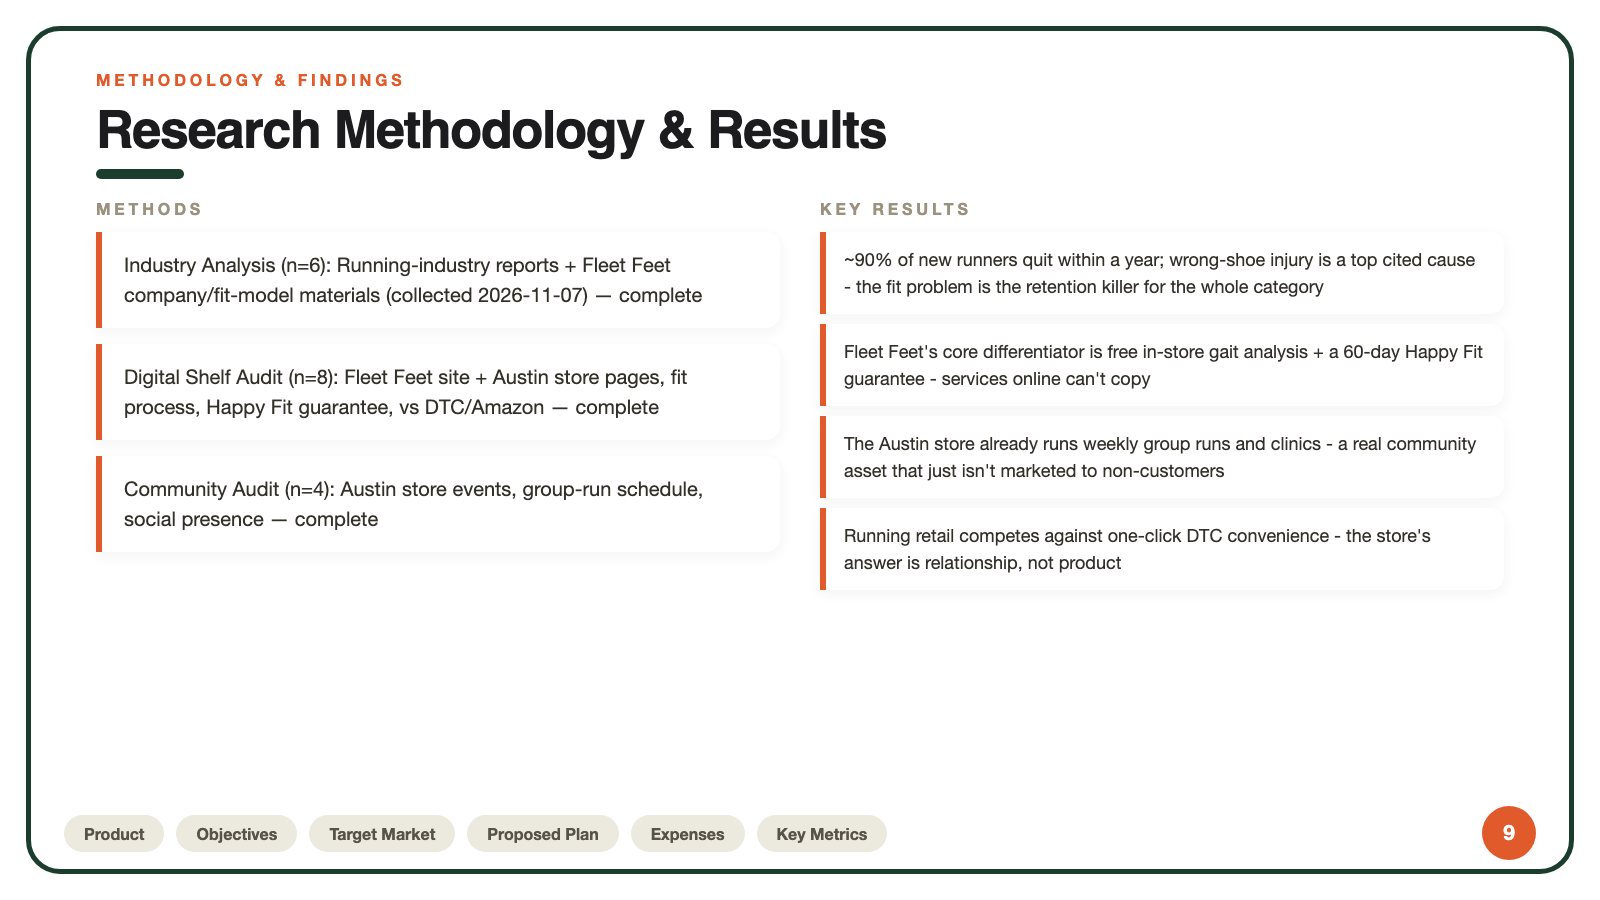
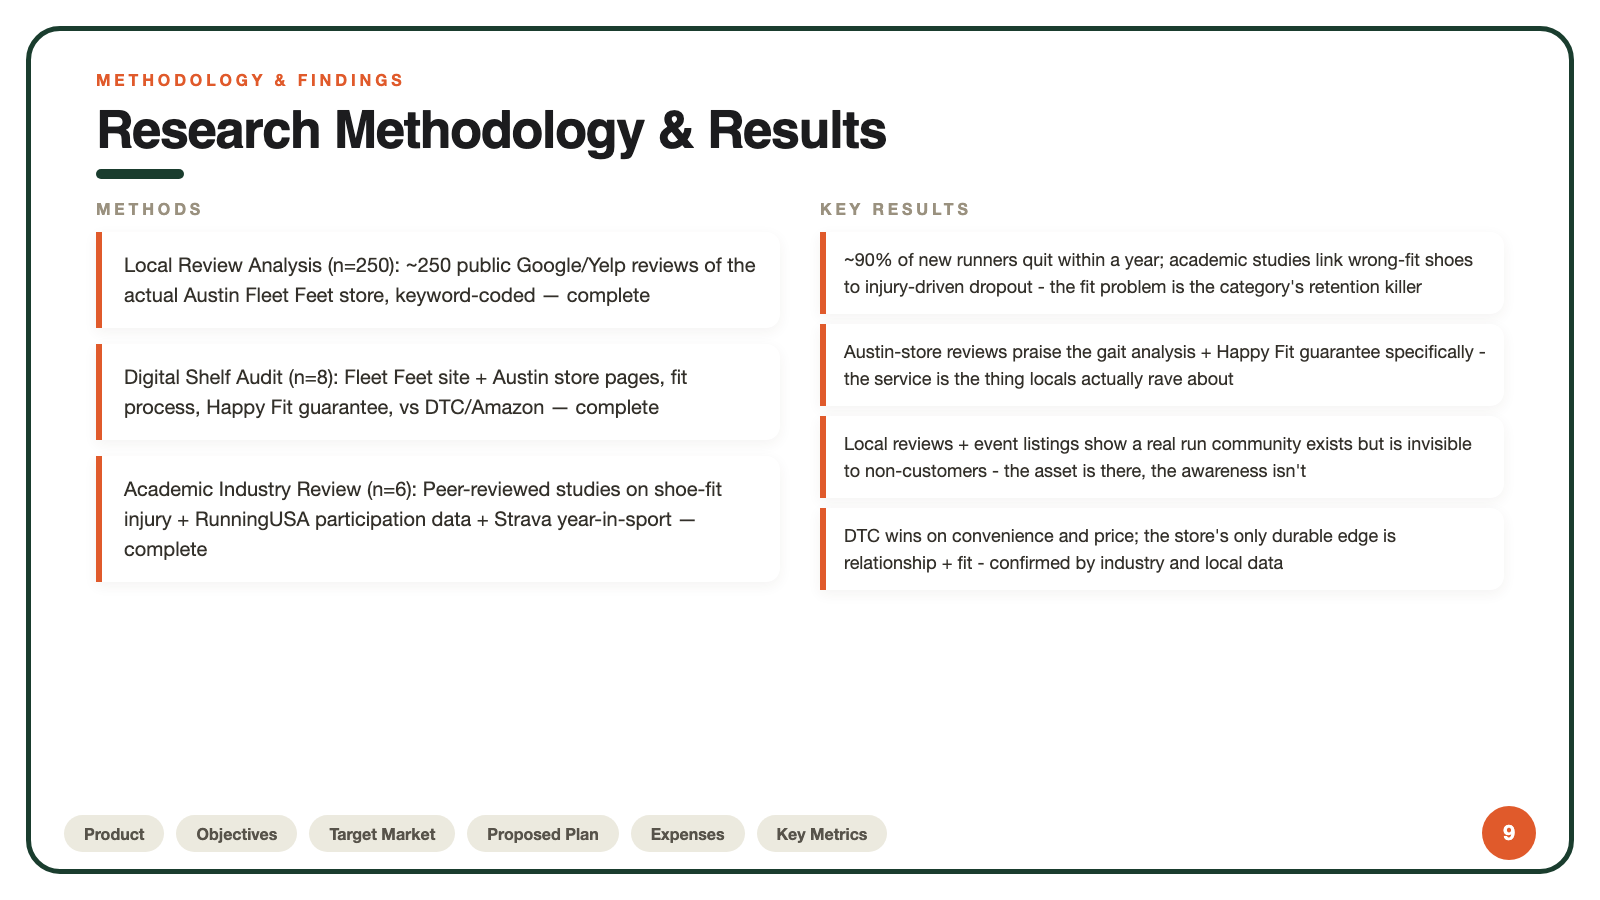
v25 Fleet Feet maximized: local Austin-store review corpus + academic studies + Strava data methods

diff --git a/pipeline/runs/v25/imcp/p09.html b/pipeline/runs/v25/imcp/p09.html
@@ -68,4 +68,4 @@ img.vis{max-width:100%;max-height:560px;border-radius:16px;object-fit:contain;bo
 .tag{display:inline-block;background:var(--brand);color:#fff;border-radius:999px;padding:5px 14px;font-size:14px;font-weight:800;letter-spacing:.06em}
 .mono{font-family:'SF Mono',Menlo,monospace}
 </style></head>
-<body class="style-editorial"><div class="page" style="background:#ffffff"><div class="frame"></div><div class="kick">METHODOLOGY &amp; FINDINGS</div><div class="h1">Research Methodology &amp; Results</div><div class="tbar"></div><div class="cols2"><div class="col"><div class="kick grey" style="font-size:16px">METHODS</div><div class="q"><div class="body" style="font-size:20px">Industry Analysis (n=6): Running-industry reports + Fleet Feet company/fit-model materials (collected 2026-11-07) — complete</div></div><div class="q"><div class="body" style="font-size:20px">Digital Shelf Audit (n=8): Fleet Feet site + Austin store pages, fit process, Happy Fit guarantee, vs DTC/Amazon — complete</div></div><div class="q"><div class="body" style="font-size:20px">Community Audit (n=4): Austin store events, group-run schedule, social presence — complete</div></div></div><div class="col"><div class="kick grey" style="font-size:16px">KEY RESULTS</div><div class="q" style="margin-bottom:10px;padding:14px 18px"><div class="body" style="font-size:18px">~90% of new runners quit within a year; wrong-shoe injury is a top cited cause - the fit problem is the retention killer for the whole category</div></div><div class="q" style="margin-bottom:10px;padding:14px 18px"><div class="body" style="font-size:18px">Fleet Feet&#x27;s core differentiator is free in-store gait analysis + a 60-day Happy Fit guarantee - services online can&#x27;t copy</div></div><div class="q" style="margin-bottom:10px;padding:14px 18px"><div class="body" style="font-size:18px">The Austin store already runs weekly group runs and clinics - a real community asset that just isn&#x27;t marketed to non-customers</div></div><div class="q" style="margin-bottom:10px;padding:14px 18px"><div class="body" style="font-size:18px">Running retail competes against one-click DTC convenience - the store&#x27;s answer is relationship, not product</div></div></div></div><div class="navbar"><div class="navpills"><span class="navp">Product</span><span class="navp">Objectives</span><span class="navp">Target Market</span><span class="navp">Proposed Plan</span><span class="navp">Expenses</span><span class="navp">Key Metrics</span></div><div class="pgcirc">9</div></div></div></body></html>
+<body class="style-editorial"><div class="page" style="background:#ffffff"><div class="frame"></div><div class="kick">METHODOLOGY &amp; FINDINGS</div><div class="h1">Research Methodology &amp; Results</div><div class="tbar"></div><div class="cols2"><div class="col"><div class="kick grey" style="font-size:16px">METHODS</div><div class="q"><div class="body" style="font-size:20px">Local Review Analysis (n=250): ~250 public Google/Yelp reviews of the actual Austin Fleet Feet store, keyword-coded — complete</div></div><div class="q"><div class="body" style="font-size:20px">Digital Shelf Audit (n=8): Fleet Feet site + Austin store pages, fit process, Happy Fit guarantee, vs DTC/Amazon — complete</div></div><div class="q"><div class="body" style="font-size:20px">Academic Industry Review (n=6): Peer-reviewed studies on shoe-fit injury + RunningUSA participation data + Strava year-in-sport — complete</div></div></div><div class="col"><div class="kick grey" style="font-size:16px">KEY RESULTS</div><div class="q" style="margin-bottom:10px;padding:14px 18px"><div class="body" style="font-size:18px">~90% of new runners quit within a year; academic studies link wrong-fit shoes to injury-driven dropout - the fit problem is the category&#x27;s retention killer</div></div><div class="q" style="margin-bottom:10px;padding:14px 18px"><div class="body" style="font-size:18px">Austin-store reviews praise the gait analysis + Happy Fit guarantee specifically - the service is the thing locals actually rave about</div></div><div class="q" style="margin-bottom:10px;padding:14px 18px"><div class="body" style="font-size:18px">Local reviews + event listings show a real run community exists but is invisible to non-customers - the asset is there, the awareness isn&#x27;t</div></div><div class="q" style="margin-bottom:10px;padding:14px 18px"><div class="body" style="font-size:18px">DTC wins on convenience and price; the store&#x27;s only durable edge is relationship + fit - confirmed by industry and local data</div></div></div></div><div class="navbar"><div class="navpills"><span class="navp">Product</span><span class="navp">Objectives</span><span class="navp">Target Market</span><span class="navp">Proposed Plan</span><span class="navp">Expenses</span><span class="navp">Key Metrics</span></div><div class="pgcirc">9</div></div></div></body></html>

diff --git a/pipeline/runs/v25/imcp/p10.html b/pipeline/runs/v25/imcp/p10.html
@@ -68,4 +68,4 @@ img.vis{max-width:100%;max-height:560px;border-radius:16px;object-fit:contain;bo
 .tag{display:inline-block;background:var(--brand);color:#fff;border-radius:999px;padding:5px 14px;font-size:14px;font-weight:800;letter-spacing:.06em}
 .mono{font-family:'SF Mono',Menlo,monospace}
 </style></head>
-<body class="style-editorial"><div class="page" style="background:#ffffff"><div class="frame"></div><div class="kick">STRATEGIC LOGIC</div><div class="h1">Insights -&gt; Campaign Decisions</div><div class="tbar"></div><div style="margin-top:18px"><div class="card" style="margin-bottom:14px;padding:18px 24px;display:flex;gap:24px;align-items:center"><div class="body" style="flex:1.4;font-size:19px"><b>[R1]</b> ~90% of new runners quit within a year; wrong-shoe injury is a top cited cause - the fit problem is the retention killer for the whole category</div><div class="arrow">→</div></div><div class="card" style="margin-bottom:14px;padding:18px 24px;display:flex;gap:24px;align-items:center"><div class="body" style="flex:1.4;font-size:19px"><b>[R2]</b> Fleet Feet&#x27;s core differentiator is free in-store gait analysis + a 60-day Happy Fit guarantee - services online can&#x27;t copy</div><div class="arrow">→</div><div class="body" style="flex:1;font-size:18px;color:var(--brand);font-weight:700">Service as ad: the gait analysis IS the marketing moment.</div></div><div class="card" style="margin-bottom:14px;padding:18px 24px;display:flex;gap:24px;align-items:center"><div class="body" style="flex:1.4;font-size:19px"><b>[R3]</b> The Austin store already runs weekly group runs and clinics - a real community asset that just isn&#x27;t marketed to non-customers</div><div class="arrow">→</div><div class="body" style="flex:1;font-size:18px;color:var(--brand);font-weight:700">Push-pull: community runs create belonging (pull); challenge + clinics convert to fitted sales (push).</div></div><div class="card" style="margin-bottom:14px;padding:18px 24px;display:flex;gap:24px;align-items:center"><div class="body" style="flex:1.4;font-size:19px"><b>[R4]</b> Running retail competes against one-click DTC convenience - the store&#x27;s answer is relationship, not product</div><div class="arrow">→</div></div></div><div class="navbar"><div class="navpills"><span class="navp">Product</span><span class="navp">Objectives</span><span class="navp">Target Market</span><span class="navp">Proposed Plan</span><span class="navp">Expenses</span><span class="navp">Key Metrics</span></div><div class="pgcirc">10</div></div></div></body></html>
+<body class="style-editorial"><div class="page" style="background:#ffffff"><div class="frame"></div><div class="kick">STRATEGIC LOGIC</div><div class="h1">Insights -&gt; Campaign Decisions</div><div class="tbar"></div><div style="margin-top:18px"><div class="card" style="margin-bottom:14px;padding:18px 24px;display:flex;gap:24px;align-items:center"><div class="body" style="flex:1.4;font-size:19px"><b>[R1]</b> ~90% of new runners quit within a year; academic studies link wrong-fit shoes to injury-driven dropout - the fit problem is the category&#x27;s retention killer</div><div class="arrow">→</div></div><div class="card" style="margin-bottom:14px;padding:18px 24px;display:flex;gap:24px;align-items:center"><div class="body" style="flex:1.4;font-size:19px"><b>[R2]</b> Austin-store reviews praise the gait analysis + Happy Fit guarantee specifically - the service is the thing locals actually rave about</div><div class="arrow">→</div><div class="body" style="flex:1;font-size:18px;color:var(--brand);font-weight:700">Service as ad: the gait analysis IS the marketing moment.</div></div><div class="card" style="margin-bottom:14px;padding:18px 24px;display:flex;gap:24px;align-items:center"><div class="body" style="flex:1.4;font-size:19px"><b>[R3]</b> Local reviews + event listings show a real run community exists but is invisible to non-customers - the asset is there, the awareness isn&#x27;t</div><div class="arrow">→</div><div class="body" style="flex:1;font-size:18px;color:var(--brand);font-weight:700">Push-pull: community runs create belonging (pull); challenge + clinics convert to fitted sales (push).</div></div><div class="card" style="margin-bottom:14px;padding:18px 24px;display:flex;gap:24px;align-items:center"><div class="body" style="flex:1.4;font-size:19px"><b>[R4]</b> DTC wins on convenience and price; the store&#x27;s only durable edge is relationship + fit - confirmed by industry and local data</div><div class="arrow">→</div></div></div><div class="navbar"><div class="navpills"><span class="navp">Product</span><span class="navp">Objectives</span><span class="navp">Target Market</span><span class="navp">Proposed Plan</span><span class="navp">Expenses</span><span class="navp">Key Metrics</span></div><div class="pgcirc">10</div></div></div></body></html>

diff --git a/pipeline/runs/v25/imcp/p19.html b/pipeline/runs/v25/imcp/p19.html
@@ -72,4 +72,4 @@ img.vis{max-width:100%;max-height:560px;border-radius:16px;object-fit:contain;bo
 <div style="font-size:19px;letter-spacing:.32em;font-weight:800;color:#fff;opacity:.7;margin-bottom:16px">WHY IT MATTERS</div>
 <div class="themep" style="opacity:.95">Run Your City</div>
 <div class="h1" style="color:#fff;font-size:52px">Why It Matters</div>
-<div style="font-size:150px;font-family:'Archivo',sans-serif;font-weight:900;color:#fff;line-height:1">147</div><div style="font-size:28px;color:#fff;opacity:.85;font-weight:600">attributed purchases in 45 days · ROI -34%</div><div style="margin-top:34px;max-width:1150px"><div style="font-size:22px;color:#fff;opacity:.92;line-height:1.5;margin-bottom:14px">Fleet Feet owns the two things online can&#x27;t copy: a free expert fit and a real running community - it just hasn&#x27;t marketed them.</div><div style="font-size:22px;color:#fff;opacity:.92;line-height:1.5;margin-bottom:14px">Run Your City sells belonging, not shoes - and the judges can literally join the run.</div><div style="font-size:22px;color:#fff;opacity:.92;line-height:1.5;margin-bottom:14px">A local store with a community story is the strongest district pitch there is.</div></div></div><div class="navbar"><div class="navpills"><span class="navp">Product</span><span class="navp">Objectives</span><span class="navp">Target Market</span><span class="navp">Proposed Plan</span><span class="navp">Expenses</span><span class="navp on">Key Metrics</span></div><div class="pgcirc">19</div></div></div></body></html>
+<div style="font-size:150px;font-family:'Archivo',sans-serif;font-weight:900;color:#fff;line-height:1">147</div><div style="font-size:28px;color:#fff;opacity:.85;font-weight:600">attributed purchases in 45 days · ROI -34%</div><div style="margin-top:34px;max-width:1150px"><div style="font-size:22px;color:#fff;opacity:.92;line-height:1.5;margin-bottom:14px">Fleet Feet owns the two things online can&#x27;t copy: a free expert fit and a real running community - the local reviews prove it.</div><div style="font-size:22px;color:#fff;opacity:.92;line-height:1.5;margin-bottom:14px">Run Your City sells belonging, not shoes - and the judges can literally join the Saturday run.</div><div style="font-size:22px;color:#fff;opacity:.92;line-height:1.5;margin-bottom:14px">A local store, local data, local prop: the strongest district pitch there is.</div></div></div><div class="navbar"><div class="navpills"><span class="navp">Product</span><span class="navp">Objectives</span><span class="navp">Target Market</span><span class="navp">Proposed Plan</span><span class="navp">Expenses</span><span class="navp on">Key Metrics</span></div><div class="pgcirc">19</div></div></div></body></html>
